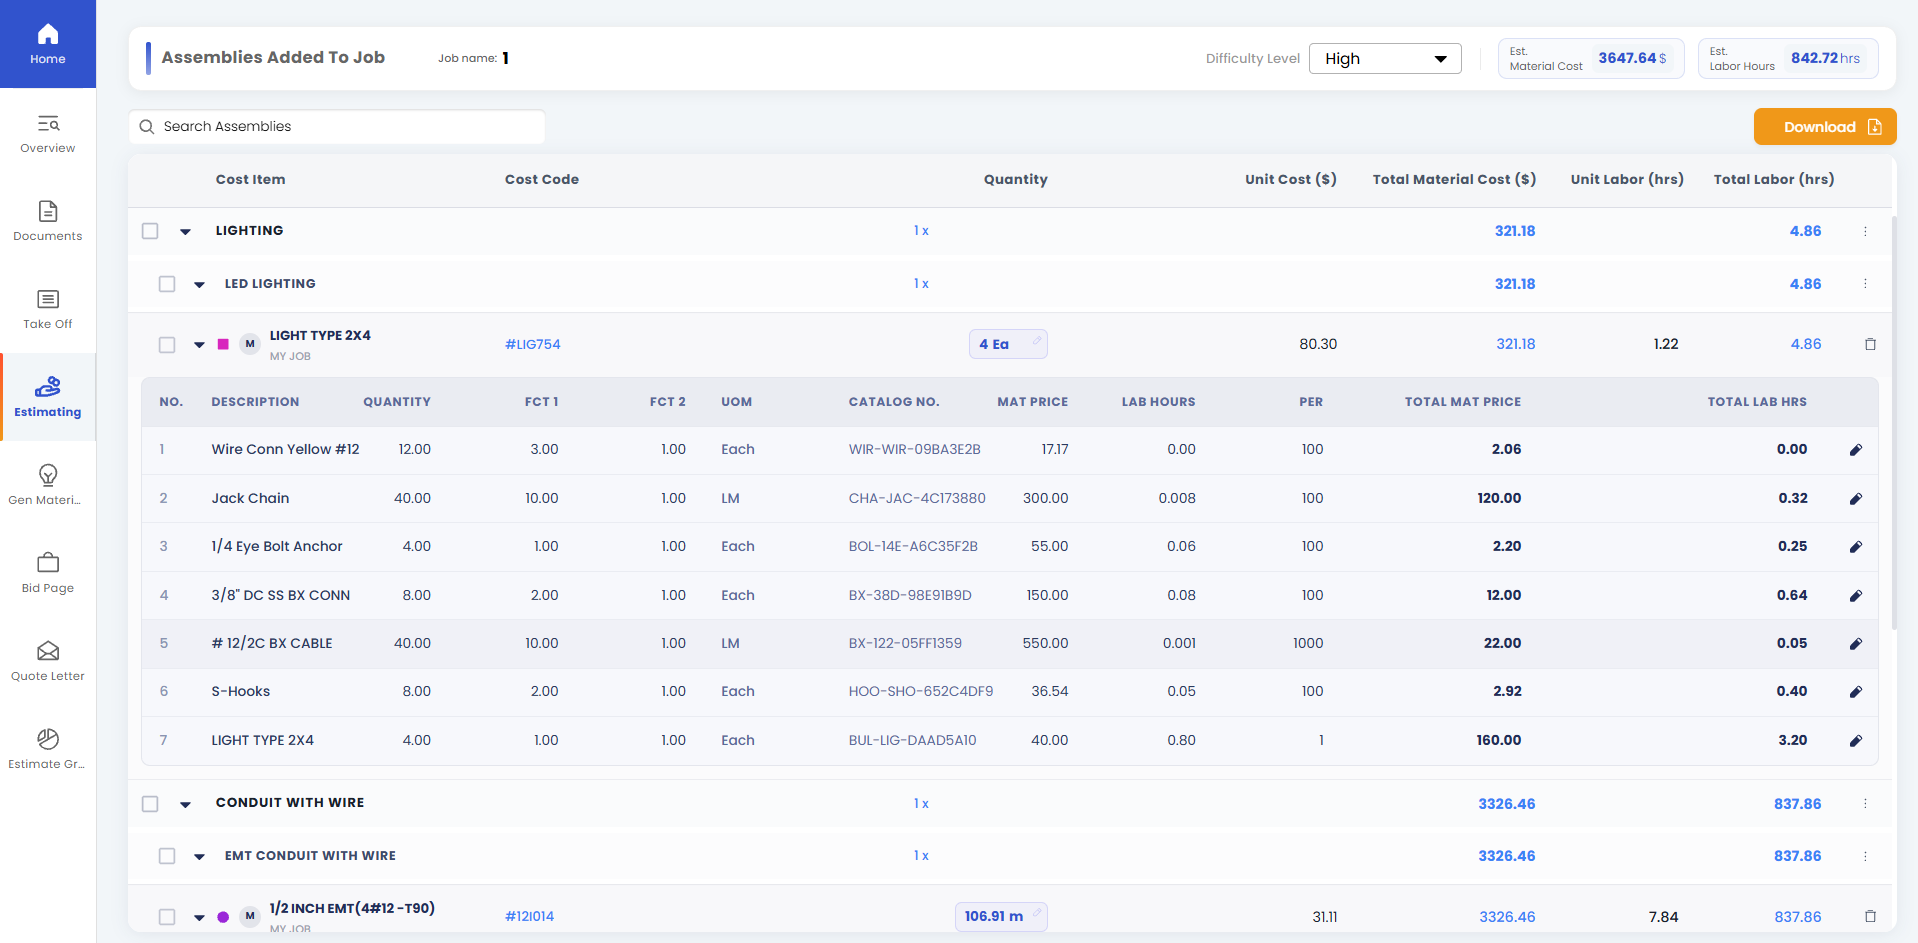
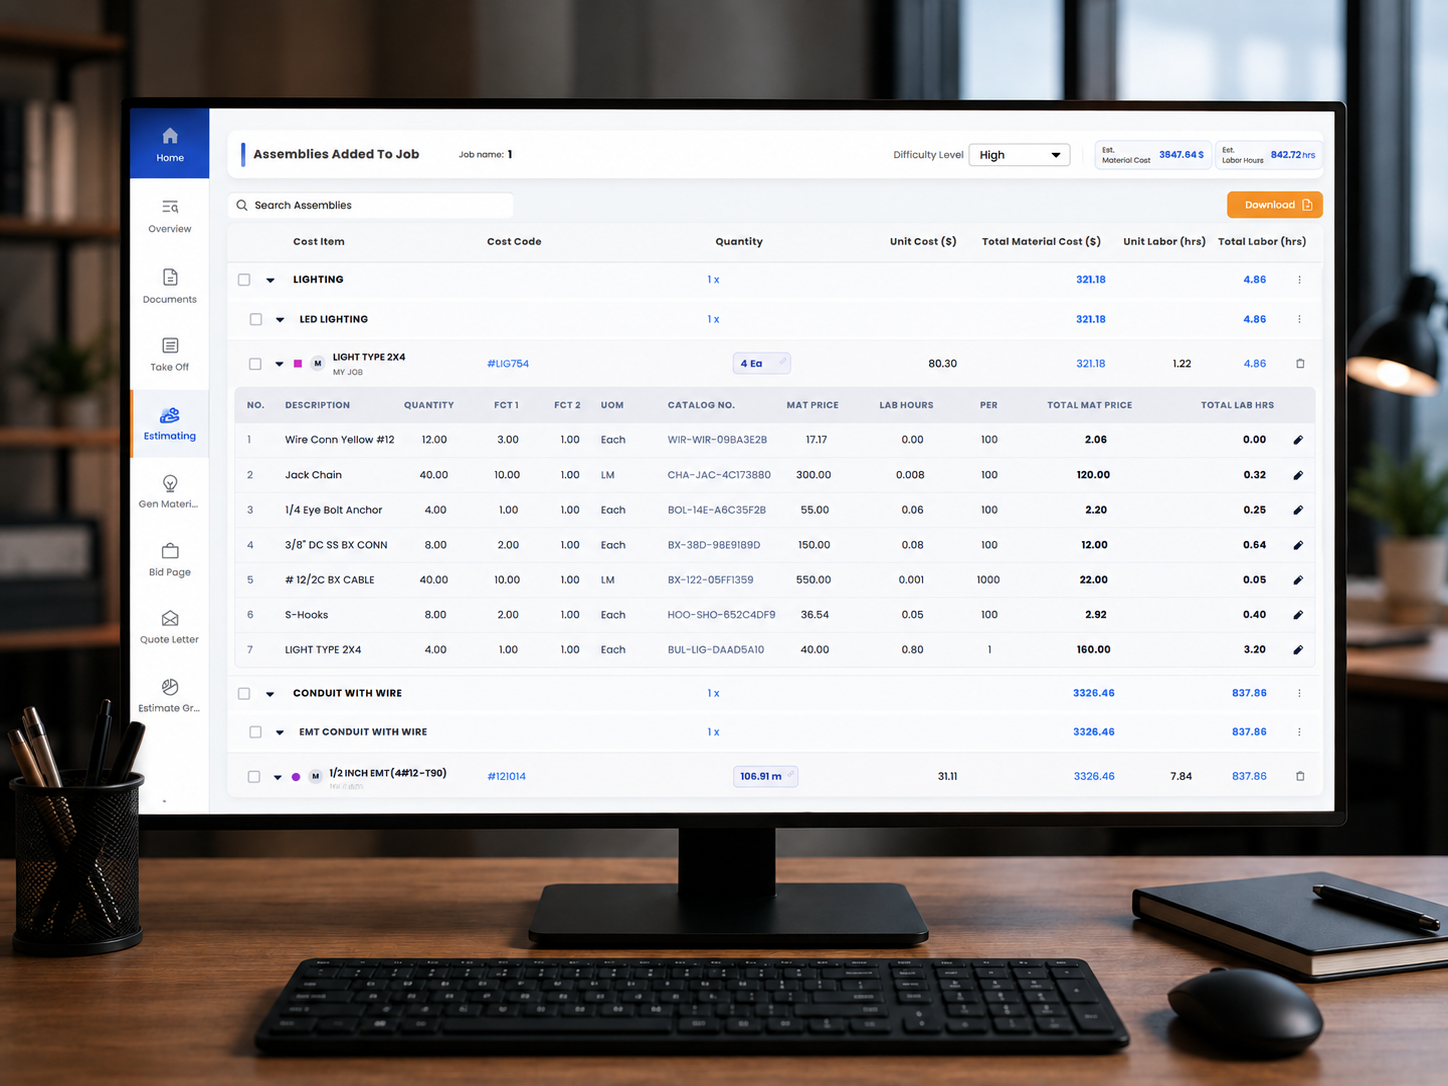
features added

diff --git a/src/pages/Features.jsx b/src/pages/Features.jsx
@@ -6,7 +6,9 @@ import { LOGIN_URL } from '../config';
 const features = [
   { accent: 'var(--grd-blue)', title: 'Digital Takeoff Canvas', body: 'Upload PDF drawing sets and navigate every page on a digital canvas. Place symbols manually or let the platform detect matching symbols. Multi-page projects supported with full page navigation.', img: '/images/features/take_off.png' },
   { accent: 'linear-gradient(90deg,#1A6B45,#2E8A5A)', title: 'Symbol Auto-Count', body: 'Draw a rectangle around any reference symbol — a light fixture, outlet, or device. The platform instantly finds and counts all matching assemblies across every drawing page.', img: '/images/features/autocount.png' },
-  { accent: 'linear-gradient(90deg,var(--red),var(--red2))', title: 'Bid Page', body: 'Your bid auto-calculates from takeoff counts. Material cost, labour hours, overhead percentage, markup, and a project duration calculator — all in one view.', img: '/images/features/bid_page.png' },
+  { accent: 'linear-gradient(90deg,#B45309,#F59E0B)', title: 'Estimating', body: 'An editable line-item grid that turns takeoff measurements into priced quantities automatically. Adjust quantities inline and see material vs. labour costs recalculate instantly, by item or by category.', img: '/images/features/estimating.png' },
+  { accent: 'linear-gradient(90deg,#0E7490,#22B8CF)', title: 'General Materials', body: 'Every material pulled into the job from your parts database, grouped by category. Edit price or labour rate inline, watch running totals feed the Final Bid, and export to Excel in one click.', img: '/images/features/gen_materials.png' },
+  { accent: 'linear-gradient(90deg,var(--red),var(--red2))', title: 'Bid Page', body: 'Material, labour crews, general expenses, and supplier quotes come together in one final bid summary — each line editable inline and saved as you type. Apply overhead & markup, get reminders , and export the finished bid as PDF or Excel.', img: '/images/features/bid_page.png' },
   { accent: 'var(--grd-acc)', title: 'Canadian City-Based Pricing', body: 'Material rates auto-adjust to regional pricing for your city — Toronto, Ottawa, Montreal, Calgary, Vancouver, and more.', img: '/images/features/canada-map.webp' },
   { accent: 'linear-gradient(90deg,#5B21B6,#7C3AED)', title: 'Quote Letter Generator', body: 'One click generates a professional branded PDF or Word quote letter from your bid — ready to submit to your client immediately.', img: '/images/features/quote_letter.png' },
   { accent: 'linear-gradient(90deg,#BE185D,#EC4899)', title: 'One-Click Quote Send', body: 'Email your branded quote letter straight to your client in a single click — no downloads, no attachments to manage. The finished quote is delivered instantly from the platform.', img: '/images/features/quote_send.png' },
@@ -14,7 +16,7 @@ const features = [
   { accent: 'linear-gradient(90deg,var(--sap),var(--sap2))', title: 'Team & Role Management', body: 'Owner and estimator roles. Assign projects to team members, track progress, and manage subscriptions — all from one account dashboard.', img: '/images/home/benefits_1.png' },
 ];
 
-const chips = ['Digital Takeoff Canvas', 'Auto-Count', 'Bid Page', 'Canadian City Pricing', 'Quote Letter Generator', 'One-Click Send', 'Estimate Graph', 'Team Management'];
+const chips = ['Digital Takeoff Canvas', 'Auto-Count', 'General Materials', 'Estimating', 'Bid Page', 'Canadian City Pricing', 'Quote Letter Generator', 'One-Click Send', 'Estimate Graph', 'Team Management'];
 
 const Features = ({ onNavigate }) => {
   const [isMobile, setIsMobile] = React.useState(window.innerWidth <= 768);
